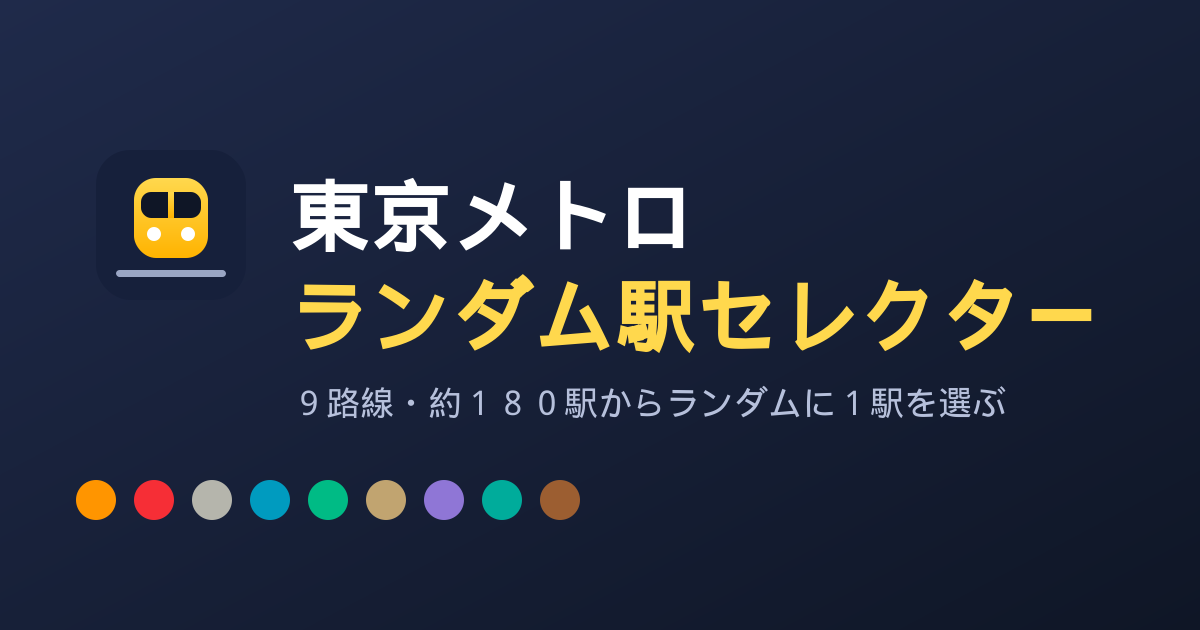
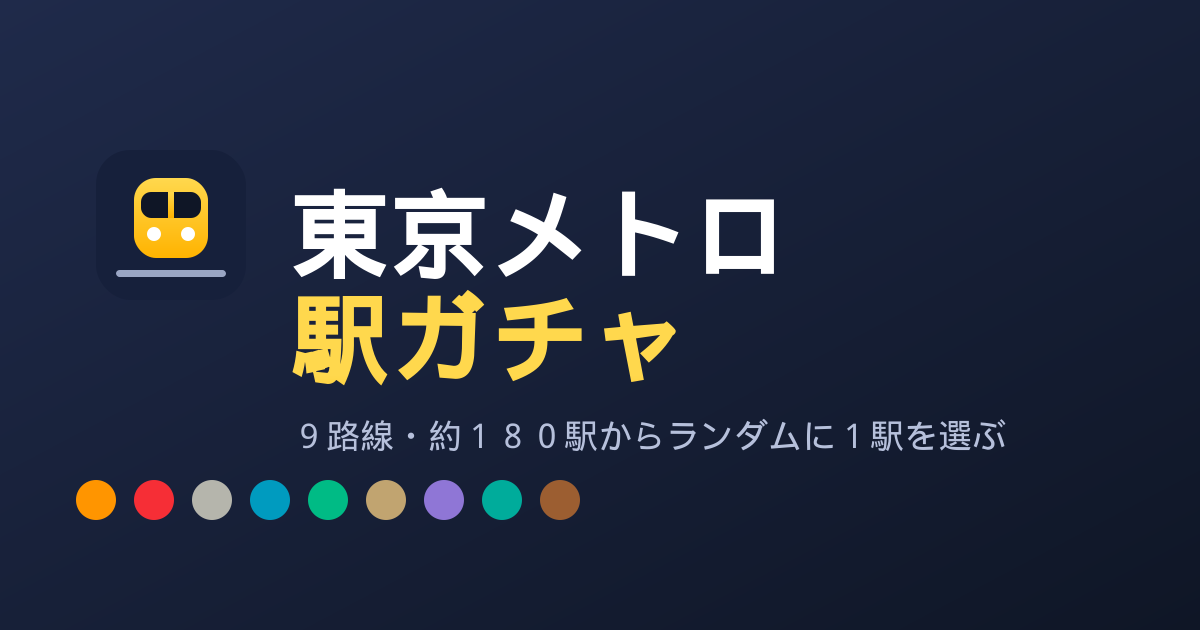
Rename app to 東京メトロ駅ガチャ

Changed region(s): [[0.2467, 0.2714, 0.925, 0.7238]]

diff --git a/index.html b/index.html
@@ -3,7 +3,7 @@
 <head>
 <meta charset="UTF-8">
 <meta name="viewport" content="width=device-width, initial-scale=1.0">
-<title>東京メトロ ランダム駅セレクター | 9路線からランダムに駅を選ぶ</title>
+<title>東京メトロ駅ガチャ | 9路線からランダムに駅を選ぶ</title>
 <meta name="description" content="東京メトロ全9路線・約180駅からランダムに1駅を選ぶ無料Webアプリ。銀座線・丸ノ内線・日比谷線・東西線・千代田線・有楽町線・半蔵門線・南北線・副都心線を路線で絞り込み可能。途中下車・お散歩・旅行先選びに。">
 <meta name="keywords" content="東京メトロ,ランダム,駅,ルーレット,路線,途中下車,散歩,銀座線,丸ノ内線,日比谷線,東西線,千代田線,有楽町線,半蔵門線,南北線,副都心線">
 <meta name="robots" content="index, follow">
@@ -11,8 +11,8 @@
 
 <!-- Open Graph -->
 <meta property="og:type" content="website">
-<meta property="og:site_name" content="東京メトロ ランダム駅セレクター">
-<meta property="og:title" content="東京メトロ ランダム駅セレクター | 9路線からランダムに駅を選ぶ">
+<meta property="og:site_name" content="東京メトロ駅ガチャ">
+<meta property="og:title" content="東京メトロ駅ガチャ | 9路線からランダムに駅を選ぶ">
 <meta property="og:description" content="東京メトロ全9路線・約180駅からランダムに1駅を選ぶ無料Webアプリ。路線で絞り込みもできます。途中下車・お散歩・旅行先選びに。">
 <meta property="og:url" content="https://suyama-daichi.github.io/metro-random/">
 <meta property="og:image" content="https://suyama-daichi.github.io/metro-random/og-image.png">
@@ -22,7 +22,7 @@
 
 <!-- Twitter Card -->
 <meta name="twitter:card" content="summary_large_image">
-<meta name="twitter:title" content="東京メトロ ランダム駅セレクター | 9路線からランダムに駅を選ぶ">
+<meta name="twitter:title" content="東京メトロ駅ガチャ | 9路線からランダムに駅を選ぶ">
 <meta name="twitter:description" content="東京メトロ全9路線・約180駅からランダムに1駅を選ぶ無料Webアプリ。途中下車・お散歩・旅行先選びに。">
 <meta name="twitter:image" content="https://suyama-daichi.github.io/metro-random/og-image.png">
 
@@ -36,7 +36,7 @@
 {
   "@context": "https://schema.org",
   "@type": "WebApplication",
-  "name": "東京メトロ ランダム駅セレクター",
+  "name": "東京メトロ駅ガチャ",
   "url": "https://suyama-daichi.github.io/metro-random/",
   "description": "東京メトロ全9路線・約180駅からランダムに1駅を選ぶ無料Webアプリ。路線で絞り込みもできます。",
   "applicationCategory": "TravelApplication",
@@ -131,7 +131,7 @@
 </style>
 </head>
 <body>
-  <h1>🚇 東京メトロ ランダム駅</h1>
+  <h1>🚇 東京メトロ駅ガチャ</h1>
   <div class="sub">ボタンを押すと路線と駅をランダムに選びます</div>
 
   <div class="lines" id="lines"></div>
@@ -148,7 +148,7 @@
   </div>
 
   <section class="about">
-    <h2>東京メトロ ランダム駅セレクターとは</h2>
+    <h2>東京メトロ駅ガチャとは</h2>
     <p>東京メトロの全9路線・約180駅の中から、ボタンひとつでランダムに1駅を選ぶ無料のWebアプリです。行き先に迷ったときの途中下車、休日のお散歩コース選び、近場の小旅行、街歩きの目的地決めなどに使えます。路線を絞り込めば、特定の沿線からだけ駅を選ぶこともできます。</p>
     <h2>対応している路線</h2>
     <ul>
@@ -167,7 +167,7 @@
   </section>
 
   <footer>
-    東京メトロ ランダム駅セレクター ・
+    東京メトロ駅ガチャ ・
     <a href="https://github.com/Suyama-Daichi/metro-random" rel="noopener">GitHub</a>
   </footer>
 
